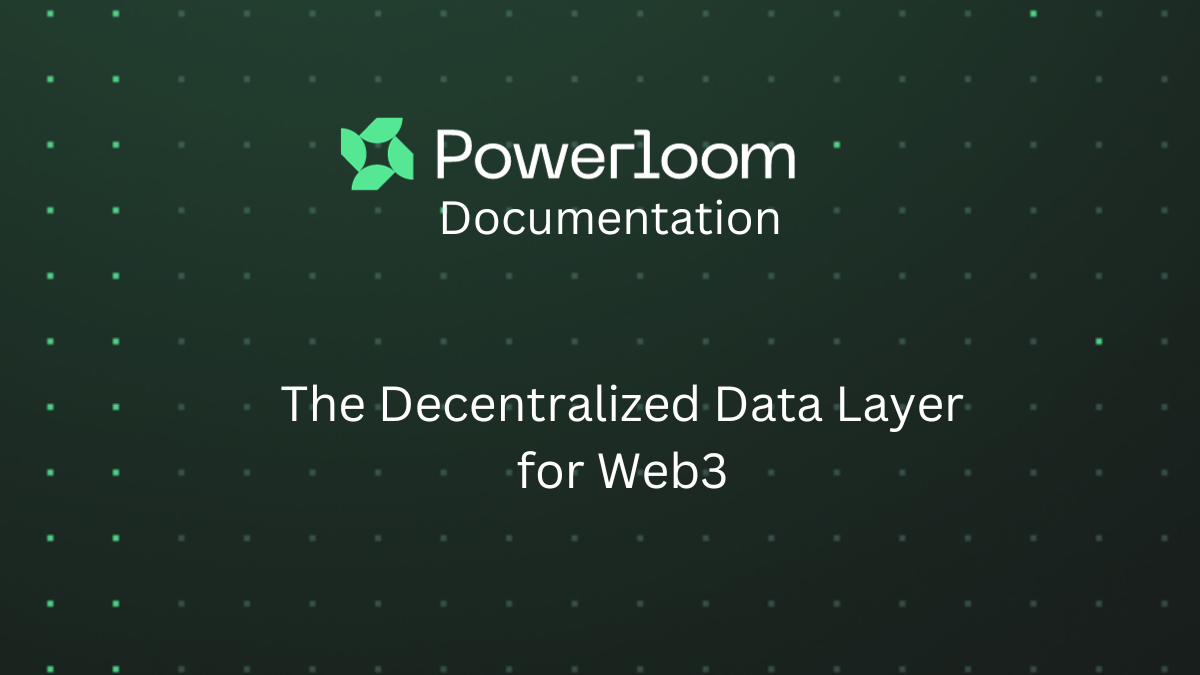
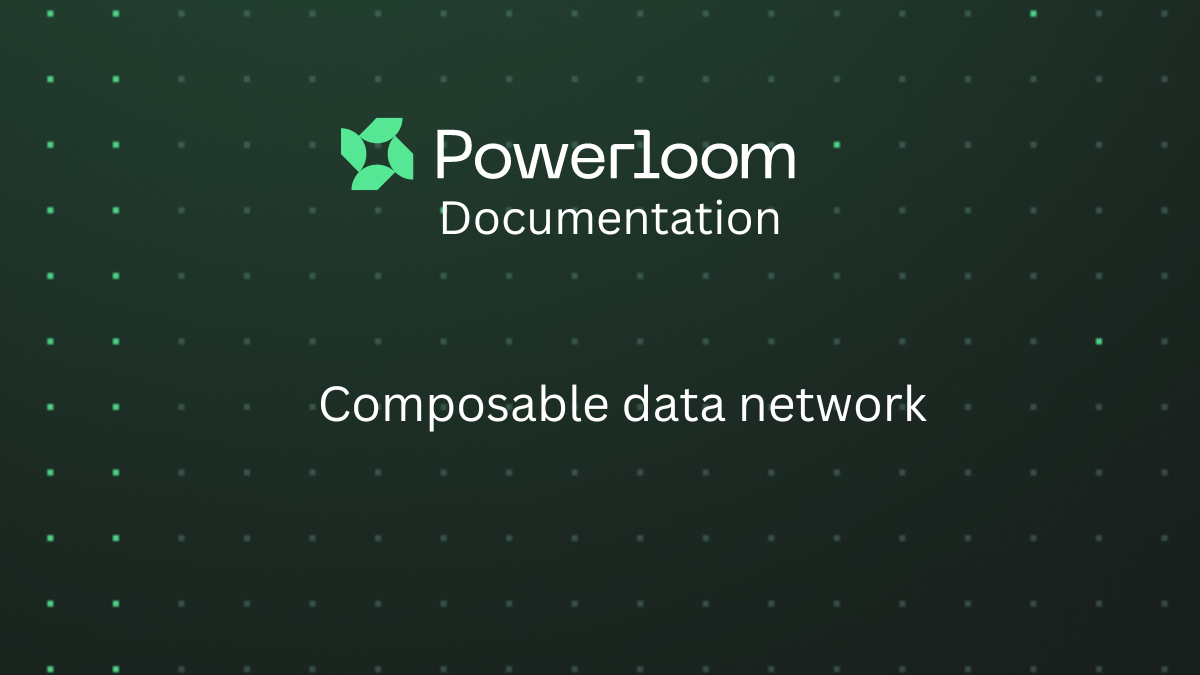
changed thumbnail, fixed typo and missing link

Changed region(s): [[0.2158, 0.56, 0.8017, 0.6533], [0.4317, 0.6533, 0.6167, 0.7467]]

diff --git a/docs/participate/lite-phase.md b/docs/participate/lite-phase.md
@@ -4,7 +4,7 @@ sidebar_position: 0
 
 # Lite Node Phase
 
-We are thrilled to announce that Public Mint for our Snapshotter Lite Node is live! This is an opportunity for everyone to participate in our Composable Data Network. You can now mint up to 10 slots and run your Snapshotter Lite Nodes.
+We are thrilled to announce that Early Mint for our Snapshotter Lite Node is live! This is an opportunity for everyone to participate in our Composable Data Network. You can now mint up to 10 slots and run your Snapshotter Lite Nodes.
 
 Our pre-mint successfully concluded on February 4th, 2024.
 For more details, please visit our blog post: [First Data Infrastructure Mint on Polygon](https://blog.powerloom.io/first-data-infrastructure-mint-on-polygon-launching-over-10-000-data-nodes/).

diff --git a/docs/build-with-powerloom/snapshotter-node/lite-node/getting-started.md b/docs/build-with-powerloom/snapshotter-node/lite-node/getting-started.md
@@ -181,4 +181,4 @@ This is a one-time configuration process that generates a .env file in the proje
 
 ## Troubleshooting
 
-If you encounter any issues, please refer to our [Troubleshooting section](./Troubleshooting.md) for more information. 
+If you encounter any issues, please refer to our [Troubleshooting section](./monitoring.md) for more information. 
